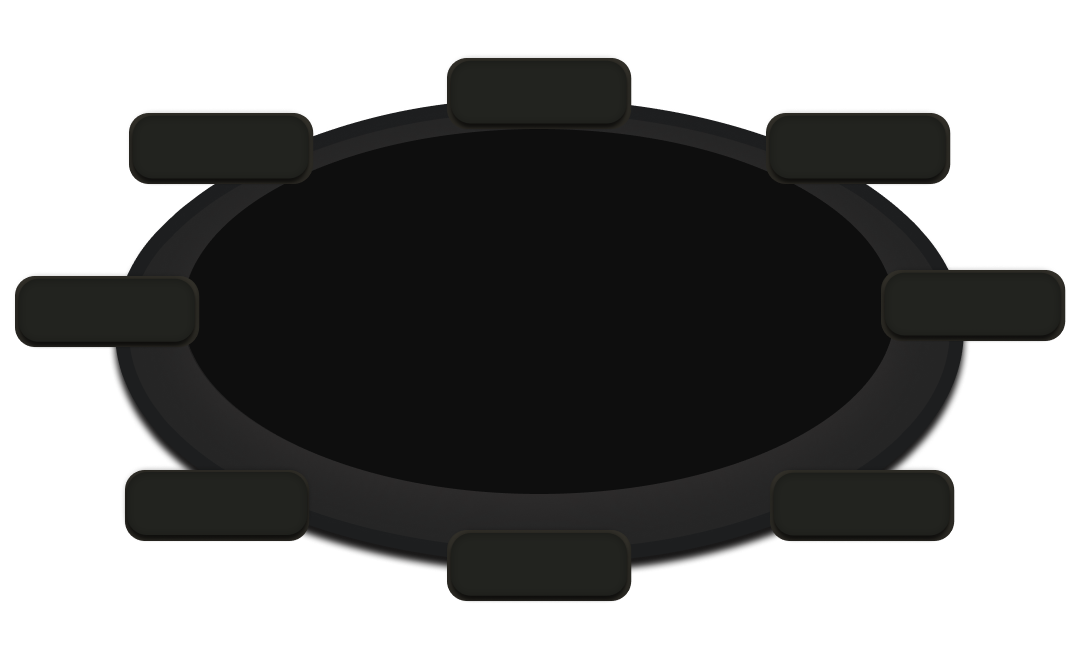
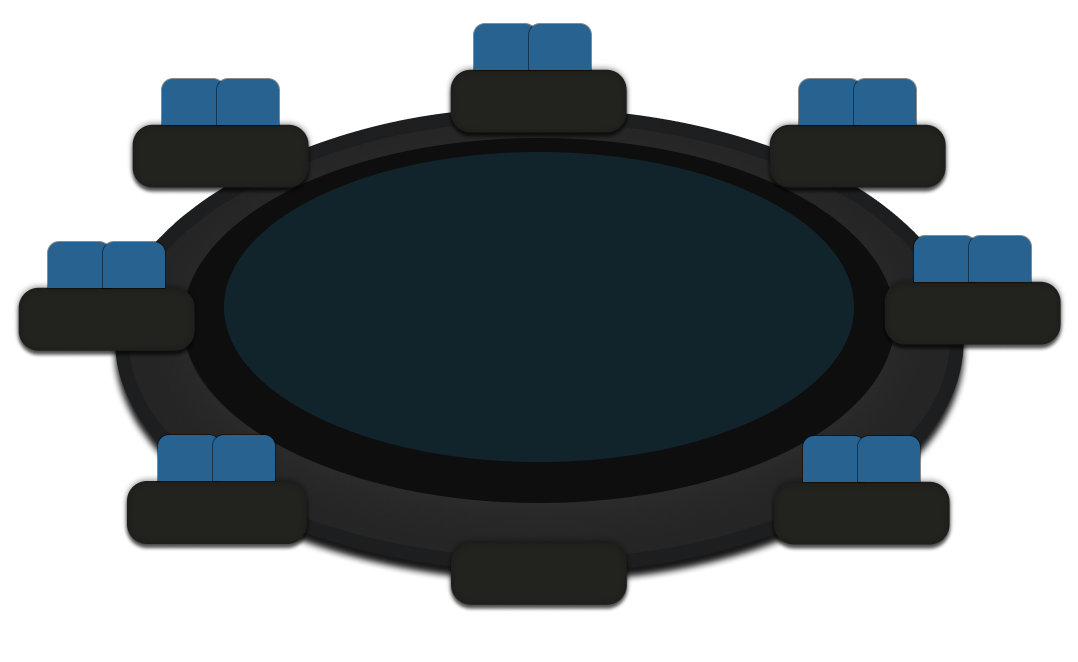
выровнял координаты для фишек, позиций , баттона

diff --git a/TableReplay.py b/TableReplay.py
@@ -12,14 +12,14 @@ class TableReplay(tk.Canvas):
     suits = {'c': '#00A318', 's': '#000000', 'h': '#FF3333', 'd': '#0093FB'}
     
     # Обновленные координаты для 8-макс стола
-    chippos_x = (357, 459, 504, 459, 357, 239, 194, 239)
-    chippos_y = (106, 137, 200, 253, 273, 253, 200, 137)
+    chippos_x = (517, 716, 780, 690, 517, 320, 242, 320)
+    chippos_y = (149, 187, 293, 385, 407, 380, 303, 187)
 
-    btn_x = (344, 516, 564, 526, 425, 230, 170, 222)
-    btn_y = (107, 135, 225, 283, 309, 299, 231, 135)
+    btn_x = (638, 834, 895, 724, 434, 287, 176, 326)
+    btn_y = (125, 198, 355, 479, 502, 454, 238, 146)
 
-    labelpos_x = (148, 208, 432, 563, 618, 563, 328, 208)
-    labelpos_y = (225, 122, 75, 122, 225, 339, 397, 339)
+    labelpos_x = (107, 221, 540, 862, 973, 862, 492, 217)
+    labelpos_y = (320, 157, 102, 157, 314, 516, 574, 510)
 
     def __init__(self, parent, heropos, vilpos, situation_index, herocards, theme, **kwargs):
         tk.Canvas.__init__(self, parent, width=1078, height=662, bg=theme.bgcolor, highlightbackground=theme.bgcolor, highlightcolor=theme.bgcolor, highlightthickness=0, bd=0)
